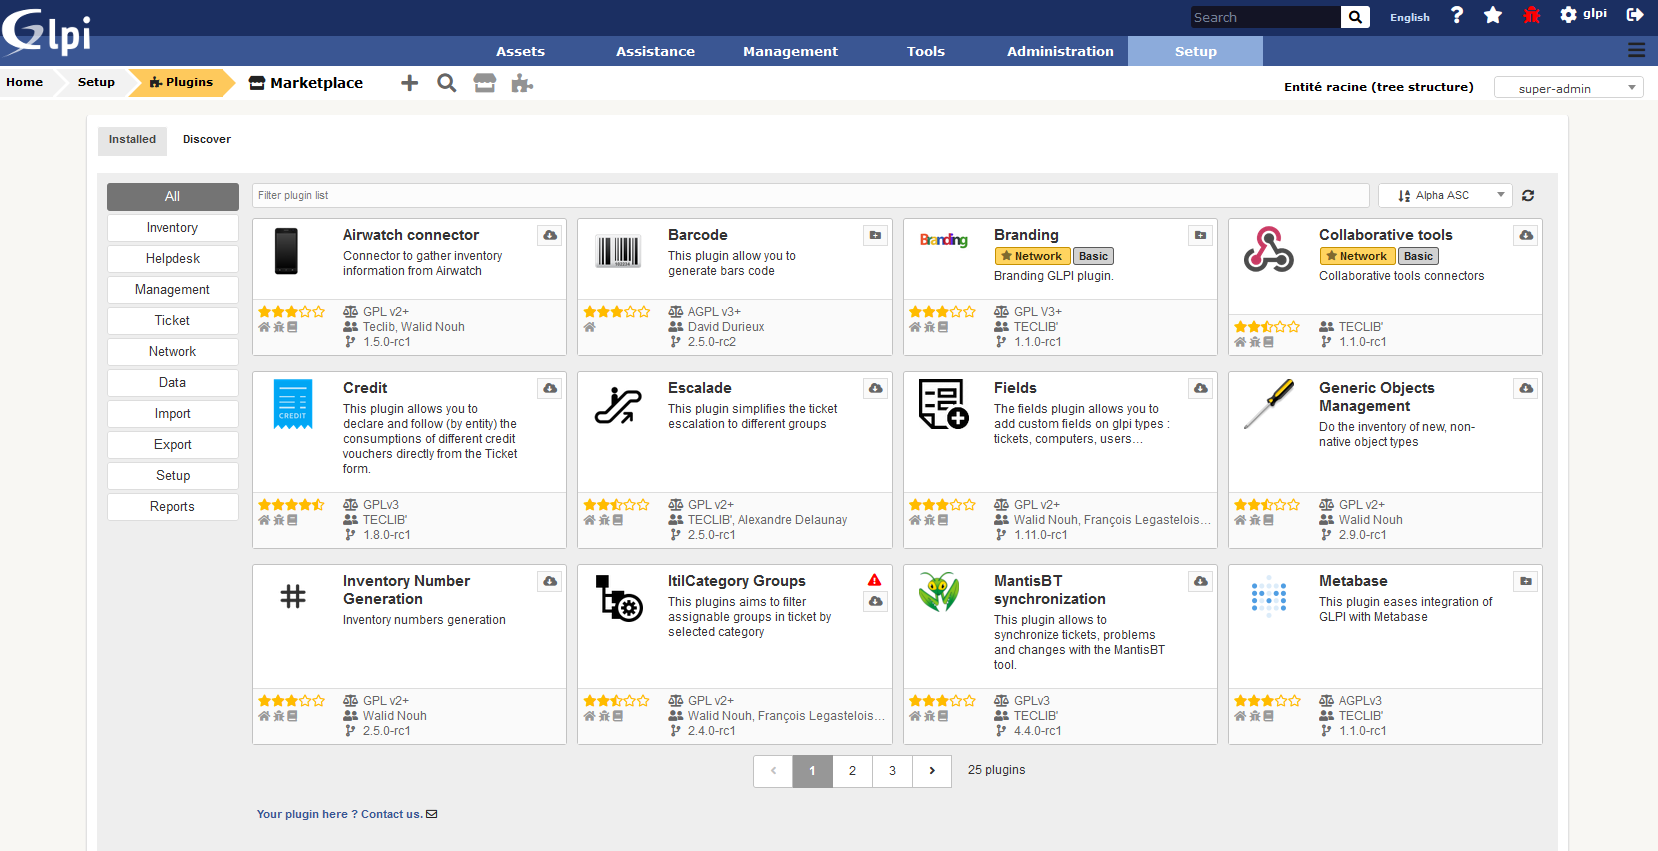
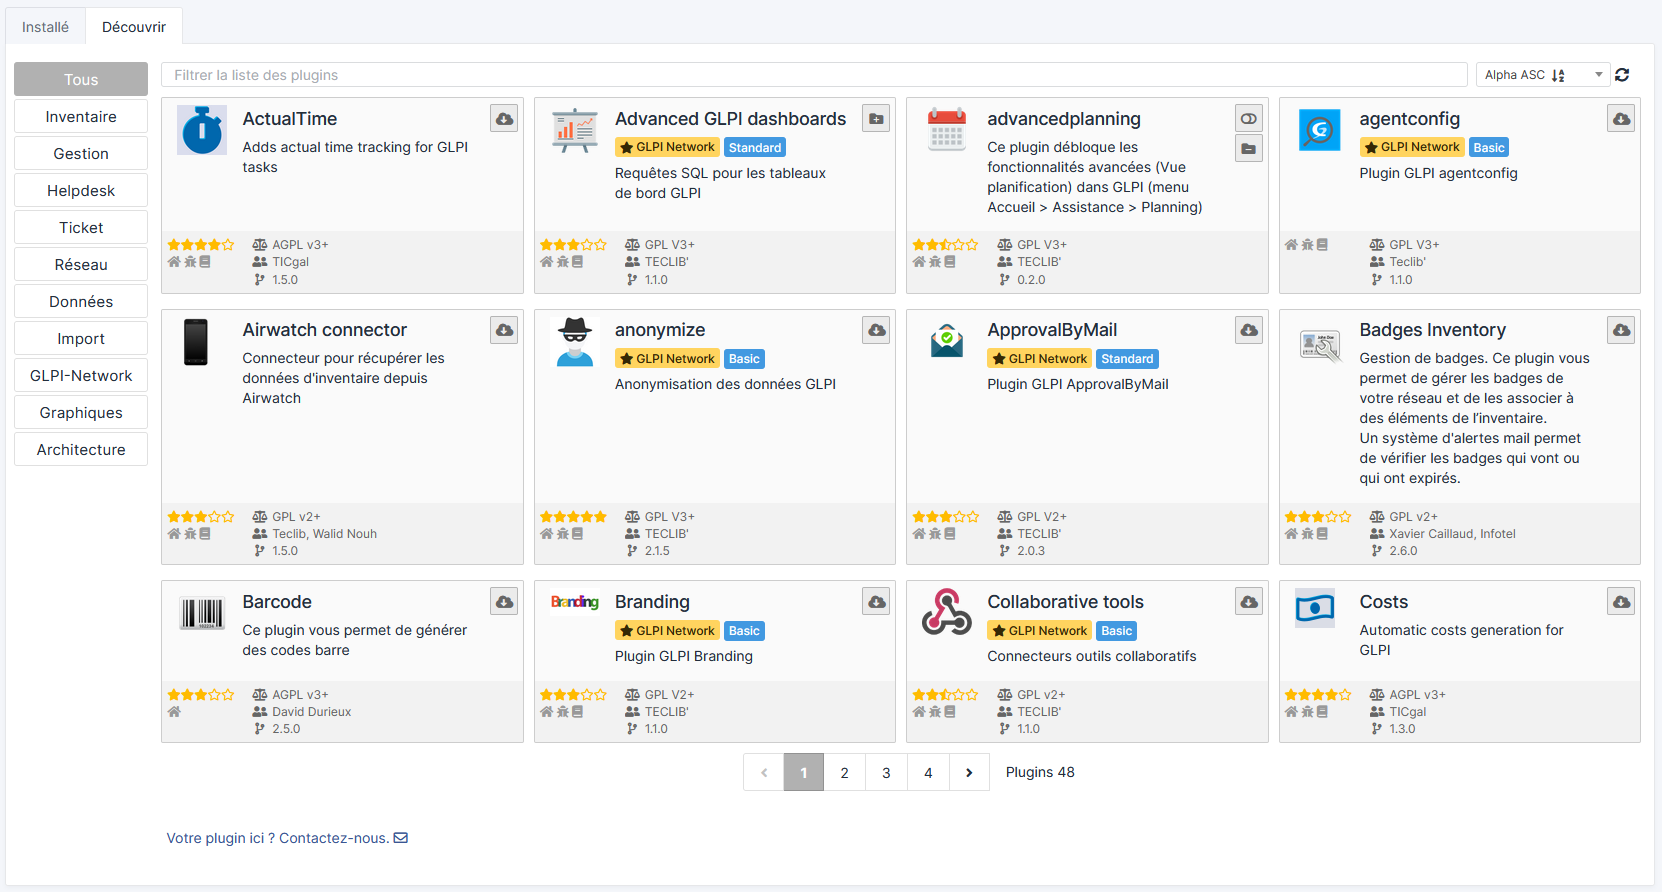
review UI of marketplace

diff --git a/css/standalone/marketplace.scss b/css/standalone/marketplace.scss
@@ -37,7 +37,6 @@ $break_s_screen: 1400px;
    $left_width: 150px;
    text-align: left;
    display: flex;
-   background-color: #EEE;
    padding: 10px;
    margin: 0 -10px;
 
@@ -57,6 +56,9 @@ $break_s_screen: 1400px;
          display: inline-block;
          width: 100%;
          font-size: 1.1em;
+         list-style: none;
+         margin: 0;
+         padding: 0;
 
          @media screen and (max-width: $break_phones) {
             display: flex;
@@ -65,20 +67,19 @@ $break_s_screen: 1400px;
          }
 
          .tag {
-            background: #FFF;
             border-radius: 3px;
-            border: 1px solid #dddddd;
+            border: 1px solid rgba(100, 100, 100, .2);
             padding: 5px;
             margin: 0 3px 3px 0;
             text-align: center;
             cursor: pointer;
 
             &:hover {
-               background: #d1d1d1;
+               background: rgba(100, 100, 100, .5);
             }
 
             &.active {
-               background: #747474;
+               background: rgba(100, 100, 100, .5);
                color: #FFF;
                border-color: transparent;
             }
@@ -129,6 +130,9 @@ $break_s_screen: 1400px;
          display: flex;
          flex-wrap: wrap;
          position: relative;
+         list-style: none;
+         margin: 0;
+         padding: 0;
 
          @media screen and (max-width: $break_phones) {
             flex-direction: column;
@@ -158,9 +162,9 @@ $break_s_screen: 1400px;
             width: calc(25% - #{$margin_width}); //minus margin
             margin: calc(#{$margin_width} / 2);
             margin-bottom: 10px;
-            border-radius: 3px;
-            background-color: #FFF;
-            border: 1px solid #c2c2c2;
+            border-radius: 2px;
+            background-color: rgba(100, 100, 100, .03);
+            border: 1px solid rgba(100, 100, 100, .3);
             display: flex;
             flex-direction: column;
             align-items: stretch;
@@ -218,25 +222,14 @@ $break_s_screen: 1400px;
 
                   .offers {
                      .badge {
-                        margin: 1px;
-                        padding: 2px 5px;
-                        border-radius: 3px;
-                        background-color: #d1d1d1;
-                        border: 1px solid #5a5a5a;
-                        color: #202020;
-                        font-weight: bold;
-
                         &.glpi-network {
                            background-color: #ffd45f;
                            color: #352804;
-                           border-color: #c69100;
                         }
 
                         i {
-                           font-size: 10px;
                            margin: 1px 3px 0 0;
                            vertical-align: top;
-                           color: rgba(0, 0, 0, .5);
                         }
                      }
                   }
@@ -247,20 +240,21 @@ $break_s_screen: 1400px;
                }
 
                .buttons {
-                  width: 25px;
+                  width: 39px;
                   padding: 5px;
                   margin-left: auto;
 
                   button {
-                     background-color: #FAFAFA;
-                     border: 1px solid #dddddd;
+                     background-color: rgba(100, 100, 100, .1);
+                     border: 1px solid rgba(100, 100, 100, .4);
+                     border-radius: 2px;
                      cursor: pointer;
-                     width: 25px;
+                     width: 28px;
                      padding: 3px 5px;
                      margin: 1px;
 
                      &:hover {
-                        background-color: #dddddd;
+                        background-color: rgba(100, 100, 100, .2);
                      }
 
                      i {
@@ -333,13 +327,14 @@ $break_s_screen: 1400px;
             }
 
             .footer {
-               background-color: #FAFAFA;
-               border-top: 1px solid rgb(221, 221, 221);
+               background-color: rgba(0, 0, 0, 0.03);
                display: flex;
                align-items: stretch;
                justify-content: space-between;
                padding: 5px;
                color: #666;
+               margin: 0;
+               border: 0;
 
                .misc-left {
                   .note {
@@ -408,12 +403,11 @@ $break_s_screen: 1400px;
          li {
             padding: 8px 16px;
             transition: background-color .1s;
-            border: 1px solid #c2c2c2;
-            background-color: white;
+            border: 1px solid rgba(100, 100, 100, .2);
 
             &.current {
-               background-color: #979797;
-               border-color: #979797;
+               background-color: rgba(100, 100, 100, .5);
+               border: 1px solid rgba(100, 100, 100, .4);
                color: white;
                font-weight: bold;
 
@@ -473,7 +467,7 @@ $break_s_screen: 1400px;
 
                .details {
                   flex: 1;
-                  border-right: 1px solid #DDD;
+                  border-right: 1px solid rgba(100, 100, 100, .3);
                   padding: 5px 0 0 10px;
                   height: 100%;
                   display: flex;
@@ -487,7 +481,7 @@ $break_s_screen: 1400px;
                }
 
                .buttons {
-                  width: 26px;
+                  width: 39px;
                   padding: 4px 5px;
                }
             }

diff --git a/inc/marketplace/view.class.php b/inc/marketplace/view.class.php
@@ -342,7 +342,7 @@ class View extends CommonGLPI {
          $sort_controls = "";
          if ($tab === "discover") {
             $sort_controls = "
-            <select class='sort-control'>
+            <select class='sort-control form-select form-select-sm'>
                <option value='sort-alpha-asc'
                        ".($sort == "sort-alpha-asc" ? "selected" : "")."
                        data-icon='fas fa-lg fa-sort-alpha-down'>
@@ -386,7 +386,7 @@ class View extends CommonGLPI {
             {$tags_list}
             <div class='right-panel'>
                <div class='top-panel'>
-                  <input type='search' class='filter-list' placeholder='{$search_label}'>
+                  <input type='search' class='filter-list form-control' placeholder='{$search_label}'>
                   <div class='controls'>
                      $sort_controls
                      <i class='fas fa-sync-alt refresh-plugin-list'
@@ -796,7 +796,7 @@ HTML;
                <i class='fas fa-star'></i>GLPI Network
             </a>
             <a href='".GLPI_NETWORK_SERVICES."' target='_blank'
-               class='badge $offerkey'
+               class='badge bg-azure $offerkey'
                title='".sprintf(__s("You need at least the %s subscription level to get this plugin"), $offerlabel)."'>
                $offerlabel
             </a>
@@ -938,6 +938,9 @@ HTML;
       if (Controller::getPluginPageConfig() == Controller::MP_REPLACE_ASK
           && !isset($_SESSION['skip_marketplace_invitation'])
           && GLPI_INSTALL_MODE !== 'CLOUD') {
+         echo "<div class='card'>";
+         echo "<div class='card-header card-title'>".__("Switch to marketplace")."</div>";
+         echo "<div class='card-body'>";
          echo "<form id='marketplace_dialog' method='POST'>";
          echo Html::image($CFG_GLPI['root_doc']."/pics/screenshots/marketplace.png", [
             'style' => 'width: 600px',
@@ -946,31 +949,25 @@ HTML;
          echo __("GLPI provides a new marketplace to download and install plugins.");
          echo "<br><br>";
          echo "<b>".__("Do you want to replace the plugins setup page by the new marketplace ?")."</b>";
-         echo "<hr><br>";
+         echo "</div>";
+         echo "<div class='card-footer'>";
          echo Html::submit("<i class='fa fa-check'></i>&nbsp;".__('Yes'), [
-            'name' => 'marketplace_replace_plugins_yes'
+            'name' => 'marketplace_replace_plugins_yes',
+            'class' => 'btn btn-primary'
          ]);
          echo "&nbsp;";
          echo Html::submit("<i class='fa fa-times'></i>&nbsp;".__('No'), [
             'name' => 'marketplace_replace_plugins_never',
-            'class' => 'secondary'
             ]);
          echo "&nbsp;";
          echo Html::submit("<i class='fa fa-clock'></i>&nbsp;".__('Later'), [
             'name'  => 'marketplace_replace_plugins_later',
-            'class' => 'secondary'
          ]);
+         echo "</div>";
          echo Html::hidden('marketplace_replace');
 
          Html::closeForm();
-
-         echo Html::scriptBlock("$(document).ready(function() {
-            $('#marketplace_dialog').dialog({
-               'modal': true,
-               'width': 'auto',
-               'title': \"".__s("Switch to marketplace")."\"
-            });
-         });");
+         echo "</div>";
       }
    }
 

diff --git a/inc/ajax.class.php b/inc/ajax.class.php
@@ -392,12 +392,14 @@ JAVASCRIPT;
          $flex_tab       = "flex-row flex-md-column d-none d-md-block";
          $border         = "border-start-0";
          $navitemml      = "ms-0";
+         $navlinkp       = "pe-1";
          $nav_width      = "style='min-width: 200px'";
          if ($orientation == "horizontal") {
             $flex_container = "flex-column";
             $flex_tab       = "flex-row";
             $border         = "";
             $navitemml      = "";
+            $navlinkp       = "";
             $nav_width      = "";
          }
 
@@ -409,7 +411,7 @@ JAVASCRIPT;
          foreach ($tabs as $val) {
             $target = str_replace('\\', '_', $val['id']);
             $html_tabs.= "<li class='nav-item $navitemml'>
-               <a class='nav-link justify-content-between pe-1' data-bs-toggle='tab' title='".strip_tags($val['title'])."' ";
+               <a class='nav-link justify-content-between $navlinkp' data-bs-toggle='tab' title='".strip_tags($val['title'])."' ";
             $html_tabs.= " href='".$val['url'].(isset($val['params'])?'?'.$val['params']:'')."' data-bs-target='#{$target}'>";
             $html_tabs.= $val['title']."</a></li>";
 
@@ -422,7 +424,7 @@ JAVASCRIPT;
          echo "</ul>";
          echo "<select class='form-select border-2 border-secondary rounded-0 rounded-top d-md-none mb-2' id='$tabdiv_id-select'>$html_sele</select>";
 
-         echo "<div class='tab-content p-2 flex-grow-1 card $border'>";
+         echo "<div class='tab-content p-2 flex-grow-1 card $border' style='min-height: 150px'>";
          foreach ($tabs as $val) {
             $id = str_replace('\\', '_', $val['id']);
             echo "<div class='tab-pane fade' role='tabpanel' id='{$id}'></div>";

diff --git a/front/plugin.php b/front/plugin.php
@@ -43,9 +43,10 @@ Html::header(__('Setup'), $_SERVER['PHP_SELF'], "config", "plugin");
 
 \Glpi\Marketplace\View::showFeatureSwitchDialog();
 
-$catalog_btn = '<div class="center">'
-   . '<a href="http://plugins.glpi-project.org" class="vsubmit" target="_blank">'
-   . __('See the catalog of plugins')
+$catalog_btn = '<div class="center my-2">'
+   . '<a href="http://plugins.glpi-project.org" class="btn btn-primary" target="_blank">'
+   . "<i class='fas fa-eye'></i>"
+   . "<span>".__('See the catalog of plugins')."</span>"
    . '</a>'
    . '</div>';
 
